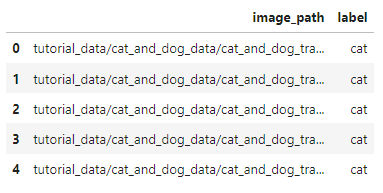
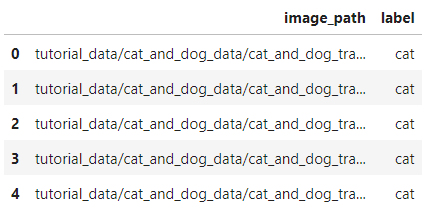
chores: 이미지 분류 모델 image-> image_path 수정

diff --git a/docs/tutorials/thanosql_ml/classification/classification_convNext.md b/docs/tutorials/thanosql_ml/classification/classification_convNext.md
@@ -94,7 +94,7 @@ LIMIT 5
 %%thanosql
 PRINT IMAGE 
 AS
-SELECT image 
+SELECT image_path 
 FROM cat_and_dog_train
 LIMIT 5
 ```
@@ -125,7 +125,7 @@ FROM cat_and_dog_test
 BUILD MODEL my_image_classifier
 USING ConvNeXt_Tiny
 OPTIONS (
-  image_col='image',
+  image_col='image_path',
   label_col='label',
   epochs=1
   )
@@ -154,7 +154,7 @@ FROM cat_and_dog_train
 %%thanosql
 PREDICT USING my_image_classifier
 OPTIONS (
-    image_col='image'
+    image_col='image_path'
     )
 AS
 SELECT *
